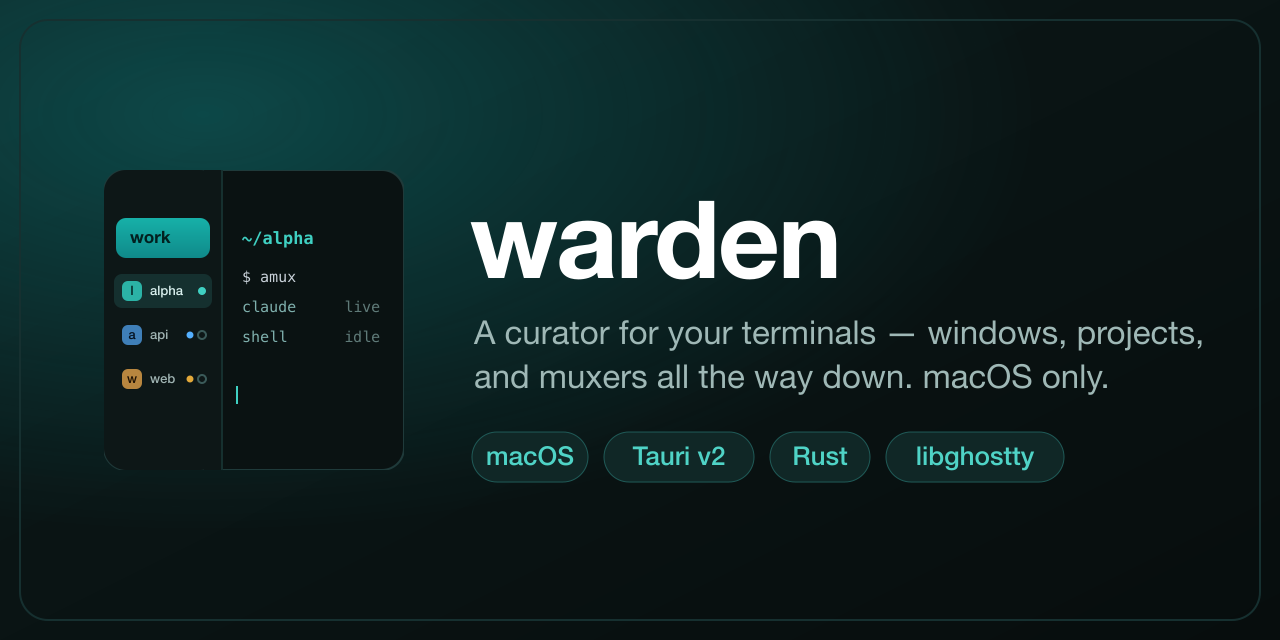
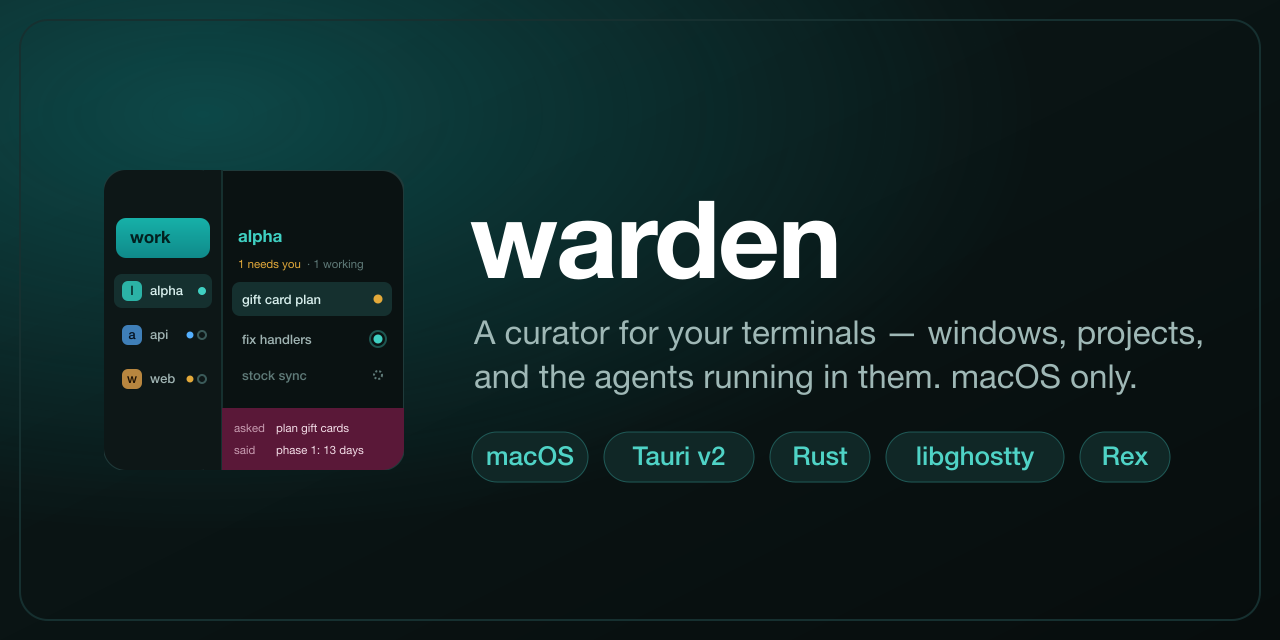
docs: the social preview and tagline show agents, not muxers
The card's mock terminal typed `$ amux` and the tagline closed on
"muxers all the way down", the warden → agentmux → tmux joke. The mock
is now a project tab's agent list (tally, three agents in their states,
the summary in the project colour), the tagline reads "windows,
projects, and the agents running in them" here and in the README, and
a Rex pill joins the stack pills.

diff --git a/README.md b/README.md
@@ -4,7 +4,7 @@
 
 # warden
 
-**A curator for your terminals** — windows, projects, and (mostly) muxers all the way down.
+**A curator for your terminals** — windows, projects, and the agents running in them.
 
 [![Release](https://img.shields.io/github/v/release/Lockyc/warden?sort=semver&label=release)](https://github.com/Lockyc/warden/releases/latest)
 ![Platform](https://img.shields.io/badge/platform-macOS-000000?logo=apple&logoColor=white)
